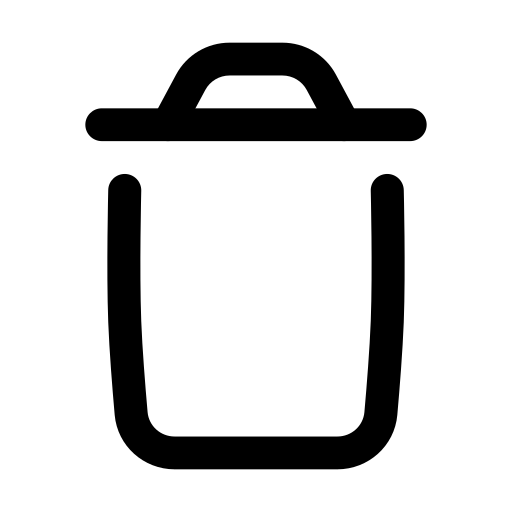
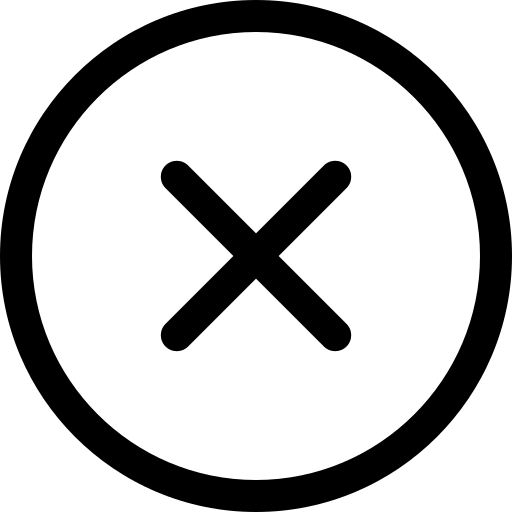
refractor item visual style

diff --git a/src/components/UI/Item.jsx b/src/components/UI/Item.jsx
@@ -4,39 +4,38 @@ import deleteIcon from './../../assets/delete.png'
 import editIcon from './../../assets/edit.png'
 
 export default function Item ( { item } ) {
-
   const { deleteItem, toggleItem, openEdit } = useItemContext()
   
   return (
-    <li className='list-row border-2 border-accent bg-base-100 flex flex-row w-full h-15 items-center justify-around'>
-      <span className=' w-1/4 h-full text-[1.1rem] flex items-center justify-start'>
-        {item.title}
-      </span>
+    <li className={`p-3 flex flex-row justify-between items-center border border-base-200 rounded-xl shadow-sm hover:shadow-md
+    transition-all ${item.isBought ? 'bg-base-200/50 opacity-60' : 'bg-base-100'}`}>
+      <div className='flex items-center gap-3'>
+        <input type='checkbox' className='checkbox checkbox-accent' checked={item.isBought} onChange={() => toggleItem(item)}/>
+        <div className='flex flex-col items-start justify-center gap-0'>
+          <h3 className={`text-base font-semibold ${item.isBought ? 'line-through text-base-content/40' : 'text-base-content'}`}>
+            {item.title}
+          </h3>
+          <span className='text-xs text-base-content/50'>{timeAgo(item.createdAt)}</span>
+        </div>
+      </div>
 
-      <span className=' w-1/6 h-full text-[1.1rem] flex items-center justify-start'>
-        {item.quantity}
-      </span>
+      <div>
+        <span className='badge badge-lg'>{item.quantity}</span>
+      </div>
 
-      <span className=' w-1/3 h-full text-[1.1rem] flex items-center justify-start'>
-        {timeAgo(item.createdAt)}
-      </span>
-
-      <span className=' w-1/3 h-full text-[1.1rem] ml-auto flex flex-row items-center justify-end gap-1'>
-
-        <button className='btn btn-ghost btn-accent rounded-full w-10 px-0 py-0'
-          onClick={() => openEdit(item)}>
-          <img src={editIcon} className='h-5' />
+      <div>
+        <button type='button' className='btn btn-ghost btn-sm btn-square btn-accent'
+          onClick={() => openEdit(item)}
+        >
+          <img src={editIcon} alt='edit button' className='h-4' />
         </button>
 
-        <button className='btn btn-ghost btn-accent rounded-full w-10 px-0 py-0'
-          onClick={() => deleteItem(item.id)}>
-          <img src={deleteIcon} className='h-5' />
+        <button type='button' className='btn btn-ghost btn-sm btn-square btn-accent'
+          onClick={() => deleteItem(item.id)}
+        >
+          <img src={deleteIcon} alt='delete button' className='h-4' />
         </button>
-        
-        <input className='checkbox checkbox-accent' type='checkbox' checked={item.isBought} onChange={() => toggleItem(item)} />
-      </span>
-
-      
+      </div>
     </li>
   )
 }

diff --git a/src/components/UI/ShoppingList.jsx b/src/components/UI/ShoppingList.jsx
@@ -3,6 +3,7 @@ import { useItemContext } from './../../context/ItemContext'
 
 export default function ShoppingList ({ filterVal }) {
   const { items } = useItemContext()
+  
 
   const filterItems = () => {
     switch (filterVal) {
@@ -15,10 +16,18 @@ export default function ShoppingList ({ filterVal }) {
 
   const filteredItems = filterItems()
 
-  return (
+  return items.length > 0 ?
+   (
     <ul className='list bg-base-200 rounded-box h-full flex flex-col gap-1'>
       {filteredItems.map(item => <Item item={item} key={item.id} />)}
     </ul>
-
+  ) :
+  (
+    <div className='bg-base-200 rounded-box h-full flex flex-col gap-1 items-center justify-start'>
+      <div role='alert' className='alert alert-warning alert-soft mt-50 flex flex-col'>
+        <span className='text-lg'>Your list is empty.</span>
+        <span>Click + to add first Item</span>
+      </div>
+    </div>
   )
 }

diff --git a/src/App.jsx b/src/App.jsx
@@ -29,9 +29,10 @@ function App() {
         <div className='flex flex-col h-screen'>
             <Header />
             
-              <Hero />
+            <Hero />
             
             <Footer />
+
         </div>
       </ItemContext.Provider>
     </>

diff --git a/src/components/UI/Hero.jsx b/src/components/UI/Hero.jsx
@@ -1,4 +1,4 @@
-import { useState} from 'react'
+import { useState } from 'react'
 import AddItemContainer from './AddItemContainer'
 import ShoppingList from './ShoppingList'
 
